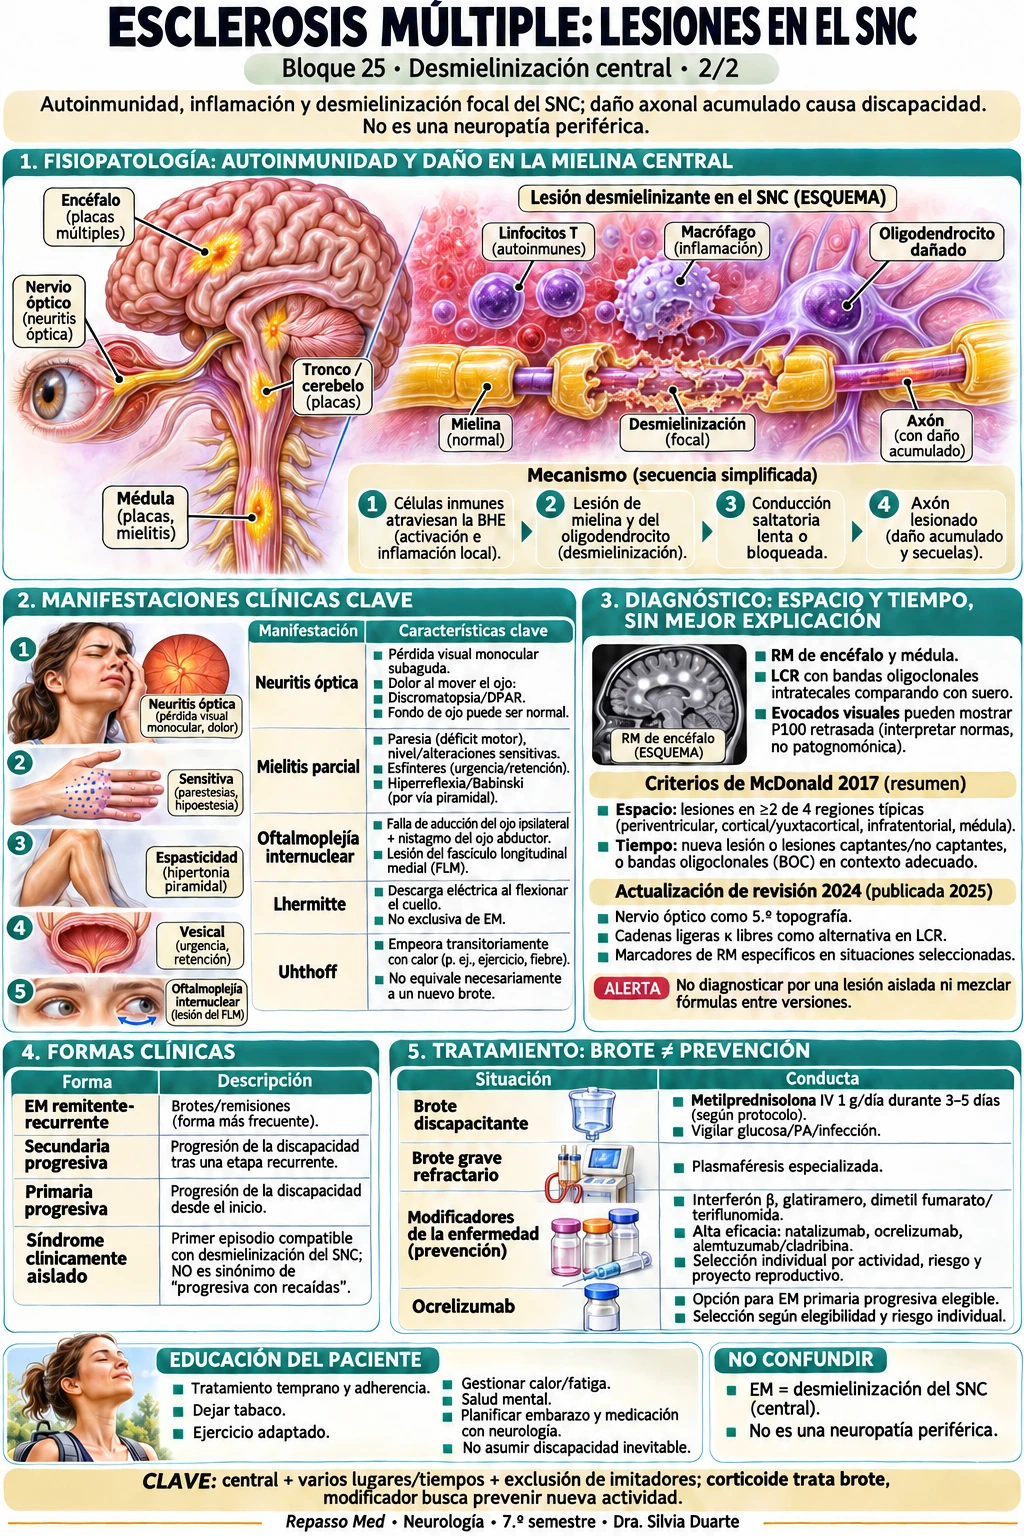
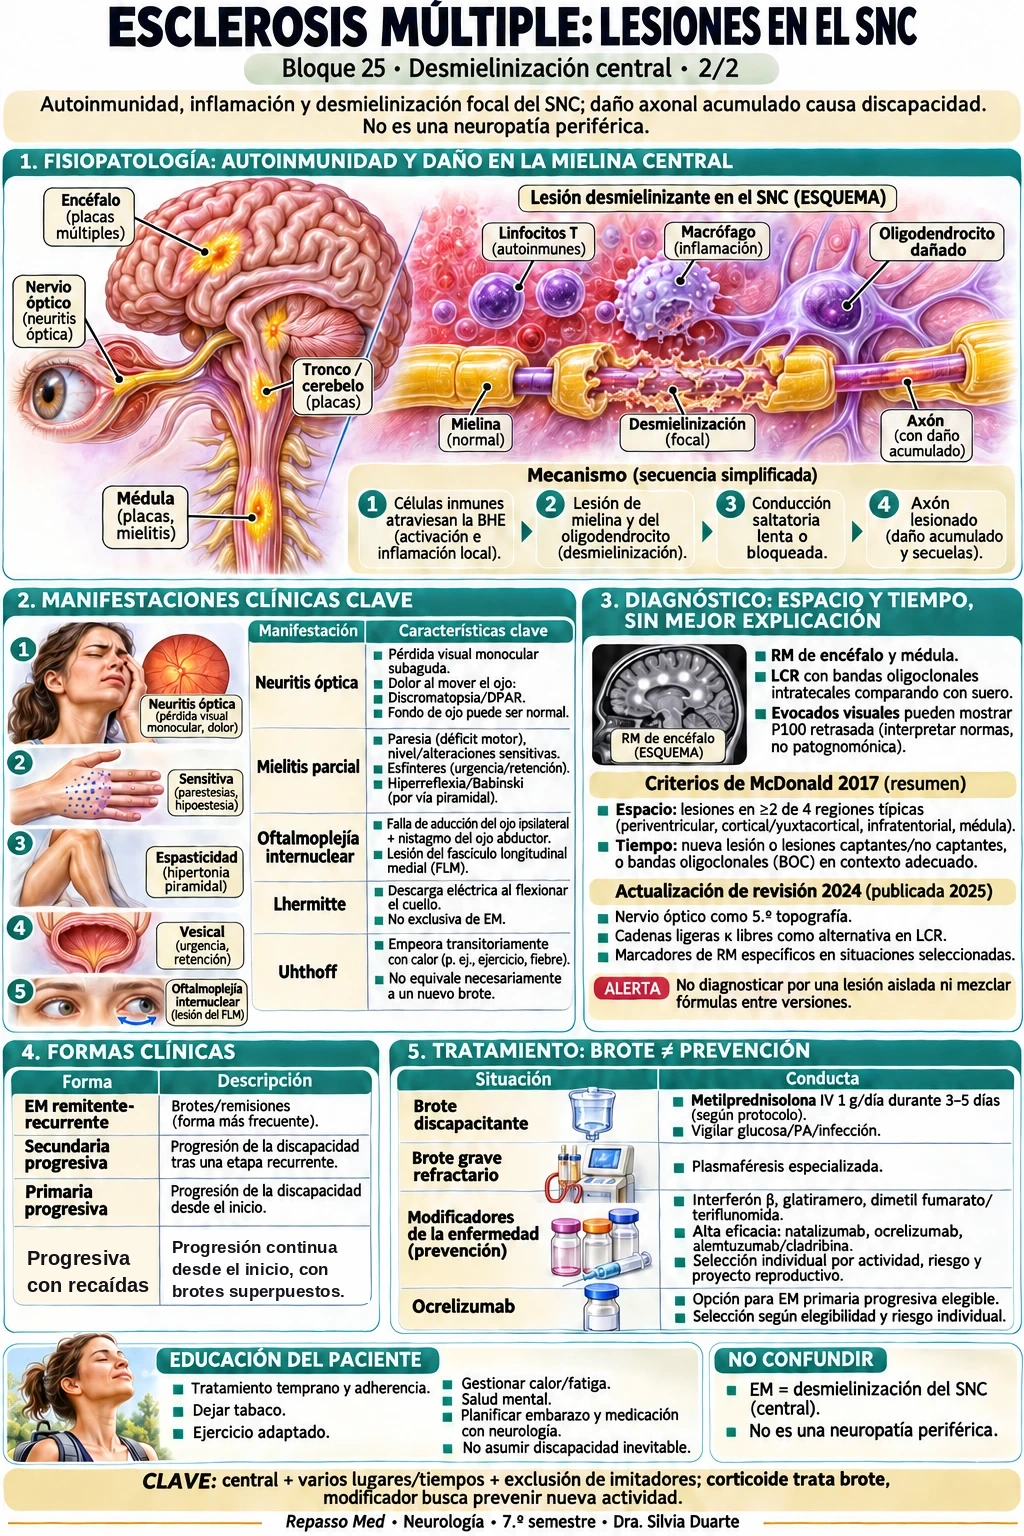
Neurología (#682): 2.ª conferência com os slides (registro por ponto), corrige a 4.ª forma da EM (b25-02), avisos nas legendas e teste de navegador que une grifos, perguntas, negrito e imagens
Claude-Session: https://claude.ai/code/session_01SyshZoF9qGQrLq3w6ribg8

Changed region(s): [[0.0312, 0.7812, 0.3438, 0.8438]]

diff --git a/coordination/source-packs/neurologia-infograficos-b20-b27-2026-11-v1.md b/coordination/source-packs/neurologia-infograficos-b20-b27-2026-11-v1.md
@@ -171,3 +171,30 @@ Nenhum slide, livro ou diretriz novo de Neurología no Drive desde 18/11 (busca 
 
 ### Marcações de alunos (SELECT só leitura, 19/11 tarde, só contagens) — **mudou desde 18/11**
 Grifos: `neub02` 10 · `neub03` 29 · `neub09` 68 e agora também **`neub20` 49 · `neub21` 120 · `neub22` 92 · `neub23` 41 · `neub24` 122 · `neub25` 38** (462 nos blocos onde a #682 acrescenta figuras; `neub26` e `neub27` sem grifo). Traços: 1, só em `neuportada` (a #682 não toca). Notas: 0. **Por que as figuras não deslocam grifos:** (1) o HTML da #682 sem as 13 figuras é idêntico à main, byte a byte; (2) as figuras ficam **no fim** de cada seção, depois dos flashcards, e os grifos ancoram por texto + prefixo/sufixo + ocorrência (acréscimo no fim não muda nenhuma ocorrência anterior); (3) prova com o motor real: grifos sintéticos nos blocos 20–25 pintam **igual** com e sem as figuras (8 spans, mesma distribuição por bloco; 63 × 50 figuras no DOM = +13). **Limite:** os grifos reais dos alunos não foram reproduzidos (nenhum dado de aluno em arquivo); a conferência é por construção e com grifos sintéticos.
+
+## Segunda conferência com os slides da cátedra · registro por ponto (19/11, noite) — **substitui as listas anteriores onde houver diferença**
+
+**Fontes lidas por inteiro nesta rodada (Drive, pasta dos slides da Dra. Silvia Duarte):** `8..pdf` (Glasgow, coma, morte cerebral), `9..pdf` (exames complementares, PL), `10..pdf` (AVC, TOAST, NIHSS), `11..pdf` (epilepsia, ILAE 2017), `12..pdf` (Parkinson), `14..pdf` (SGB, esclerose múltipla, cefaleias), `15..pdf` (patologias traumáticas) e `16. TEC II.pdf` (abordagem do TEC). **Literatura-base de Neurología (livro, diretriz, artigo): não existe no projeto nem no Drive** (busca por título e texto completo; os únicos acertos de «McDonald/ILAE/Brain Trauma» são as próprias imagens). Portanto, **nenhum ponto externo aos slides pode ser dado como confirmado**; ele fica «não confirmado» e a imagem é preservada.
+
+**Regra de decisão aplicada:** (1) corrigir a imagem só se a cátedra (slide + bloco) e o próprio conteúdo do site mostram que a figura ensina outra coisa do que é cobrado; (2) se a figura traz informação **externa** aos slides, mas não contradiz a cátedra → manter e avisar na legenda; (3) se a figura contradiz um slide, mas a figura está cientificamente correta e a cátedra exagera → manter e avisar na legenda (o aluno estuda o que a cátedra cobra); (4) nada de inventar fonte.
+
+| # | Imagem | Trecho da imagem | Fonte (slide) | Estado | Decisão |
+|---|---|---|---|---|---|
+| 1 | b25-02 | Quadro «Formas clínicas», 4.ª linha: «Síndrome clínicamente aislado · primer episodio…; NO es sinónimo de “progresiva con recaídas”» | `14..`: 4 formas = EMRR, EMSP, EMPP e «EM Progresivo con Recaídas». Bloco 25 do site: «las cuatro formas… progresiva con recaídas» (⭐) e «Progresiva con recaídas (PR): progresión continua desde el comienzo con brotes agudos superpuestos»; pergunta «basada en examen» sobre a PR | **DIVERGE** (a figura trocava a 4.ª forma do curso) | **CORRIGIDO na imagem:** linha passa a «Progresiva con recaídas · Progresión continua desde el inicio, con brotes superpuestos.» (texto do próprio bloco). O rótulo do slide «primer episodio desmielinizante» **não** foi copiado (descreve, na verdade, o síndrome clínico isolado): legenda manda perguntar à cátedra. sha256 antes `bbae7a23…c392c0`, depois `f113bb6c…834460`; original intacto no Drive (`14zy-dUEVyUVTDCYNGXfM1dWVTNn28ApK`) |
+| 2 | b25-02 | Painel «Actualización de revisión 2024 (publicada 2025): nervio óptico como 5.ª topografía; cadenas ligeras κ libres…» | `14..`: só «Criterios de McDonald 2017» | **EXTRA, não confirmado** (sem fonte no projeto) | **Mantido**; legenda já avisa que não é conteúdo da cátedra |
+| 3 | b25-02 | «Evocados visuales pueden mostrar P100 retrasada (interpretar normas, **no patognomónica**)» | `14..`: «Hallazgo patognomónico: retraso en la latencia de la onda P100 (>100 ms)» | **DIVERGE do slide** (novo nesta rodada) | **Mantido**: a figura é a formulação cientificamente prudente; o slide exagera. **Legenda nova** avisa e manda seguir a cátedra no exame |
+| 4 | b27-01 | «Coma no se define solo como GCS ≤5; GCS ≤8 exige valorar protección de vía aérea» · «GCS ≤8: no significa “coma profundo”» | `15..`: tabela «Coma ≤ 5». `8..`: «Glasgow de 8 o menos, sin apertura ocular» e «3 = coma profundo» | **Os slides divergem entre si**; a figura segue a formulação do `8..` | **Mantido**; **legenda nova** registra que os dois slides não coincidem |
+| 5 | b27-02 | «Tratamiento de PIC sostenida >22 mmHg» | `15..`: «HTEC: PIC > 20 mmHg» (definição), sem limiar de tratamento | **DIVERGE** (22 × 20) | **Mantido** (limiar de tratamento ≠ definição; sem fonte para trocar); legenda já avisa |
+| 6 | b27-02 | «PPC = PAM – PIC»; «objetivo PPC habitualmente 60–70 mmHg individualizado»; «no hiperventilación profiláctica prolongada» | `15..` e `16. TEC II`: nada sobre PPC nem hiperventilação (só «cabecera 30°, osmoterapia, craniectomía») | **EXTRA, não confirmado** | **Mantido**; legenda já avisa PPC; **legenda nova** inclui hiperventilação |
+| 7 | b27-02 | Caixa «CORTICOIDES: NO indicados para reducir PIC… metilprednisolona a altas dosis aumenta mortalidad» | `15..`, `16. TEC II`: não mencionam corticoides | **EXTRA, não confirmado** (novo nesta rodada) | **Mantido**; **legenda nova** |
+| 8 | b27-02 | «Fractura deprimida abierta, herida penetrante o hidrocefalia sintomática»; HED/HSD só com volume/espessura | `16. TEC II`: «Fractura craneal deprimida > 1 tabla ósea»; HED «> 30 mL ou grosor > 15 mm ou desvio > 5 mm» | EXTRA/omissão **menor** (a figura é subconjunto; «abierta» ≠ «> 1 tabla») | **Mantido**, registrado; sem legenda (não induz erro de prova) |
+| 9 | b20-01 | «no retrasar antibióticos», «glucemia simultánea», «glucosa ≈ 60 % de la plasmática» | `9..`: indicações da PL, riscos, tubos, «glucosa 45–80 mg/dL; < 40 em infecção» | **EXTRA, não confirmado** | **Mantido**; legenda já avisa |
+| 10 | b21-01 | Quadro TOAST: «Gran vaso · Cardioembólico · Pequeño vaso · Otra causa determinada · Indeterminada (estudio no concluyente o varias causas)» | `10..`: «Aterosclerosis de gran vaso · Cardioembolismo · Pequeño vaso/lacunar · Causa determinada infrecuente · Criptogénico (causa no identificada pese a estudio completo)» | **Nomes equivalentes**; descrição do último mais ampla que a do slide | **Mantido**; **legenda nova** explica a equivalência |
+| 11 | b21-01 | «Trombólisis IV ≤ 4,5 h», «trombectomía… hasta 24 h», «puerta-aguja < 60 min» | `10..`: «Ventana terapéutica» só como imagem (sem texto extraível) | **Não verificável** | **Mantido**; **legenda nova** |
+| 12 | b21-01 | NIHSS: 1 · 2–5 · 6–15 · 16–20 · > 20 | `10..`: idem | **CONFERE** | — |
+| 13 | b22-01 | «ILAE actualizó terminología en 2025; aquí se conserva el esquema docente identificado como 2017» e «recurrencia ≥ 60 % **en 10 años**» | `11..`: «Clasificación ILAE 2017» e «riesgo recurrencia ≥ 60 %» (sem «10 anos») | ILAE 2017 e demais itens **CONFEREM**; «2025» e «10 anos» **EXTRA** | **Mantido**; **legenda nova** |
+| 14 | b23-01 | «D1/D2», «pramipexol» como exemplo | `12..`: «vía directa/indirecta»; «agonistas dopaminérgicos» sem nomes | **EXTRA, não confirmado** | **Mantido**; legenda já avisa |
+| 15 | b26-01 | «Sobreuso: cefalea ≥ 15 días/mes con uso excesivo sostenido…; umbrales dependen del medicamento» e aura «5–60 min» | `14..`: «> 15 días/mes (crónica)» **só para a cefalea tensional**; «evitar uso excesivo»; aura «< 60 min» | **EXTRA, não confirmado** (limiar de sobreuso; limite inferior de 5 min da aura) | **Mantido**; legenda já avisa o sobreuso |
+| 16 | b25-01 | «Plasmaféresis: 5 sesiones en 2 semanas» | `14..` | **CONFERE** (corrigido em 19/11 anterior) | — |
+
+**Resumo desta rodada:** 16 pontos revistos; **2 correções provadas** na imagem (plasmaférese e a 4.ª forma da EM); **0** informações novas inventadas; 8 legendas carregam avisos (b20-01, b21-01, b22-01, b23-01, b25-02, b26-01, b27-01 e b27-02; novas nesta rodada: b21-01, b22-01, b27-01 e acréscimos em b25-02 e b27-02). **Continuam sem confirmação por falta de fonte no projeto:** McDonald 2024, PPC/hiperventilação/corticoides no TEC, antibióticos/glicemia na PL, D1/D2/pramipexol, limiar de sobreuso, ILAE 2025, tempos de reperfusão.
